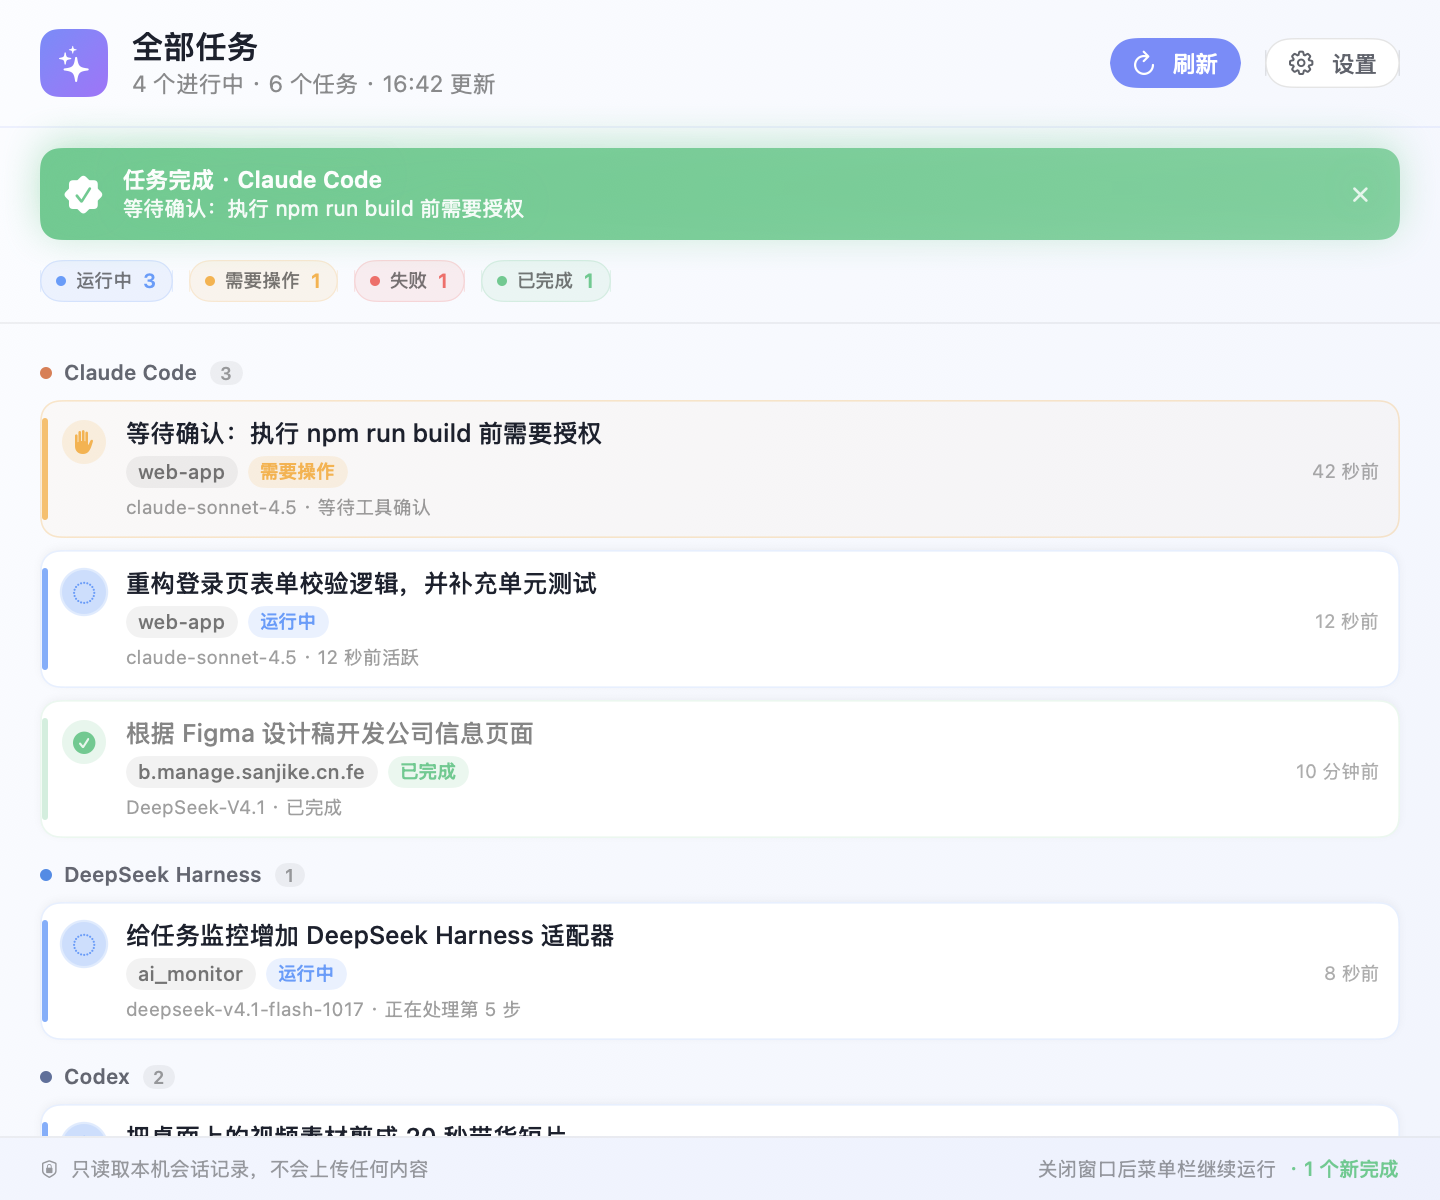
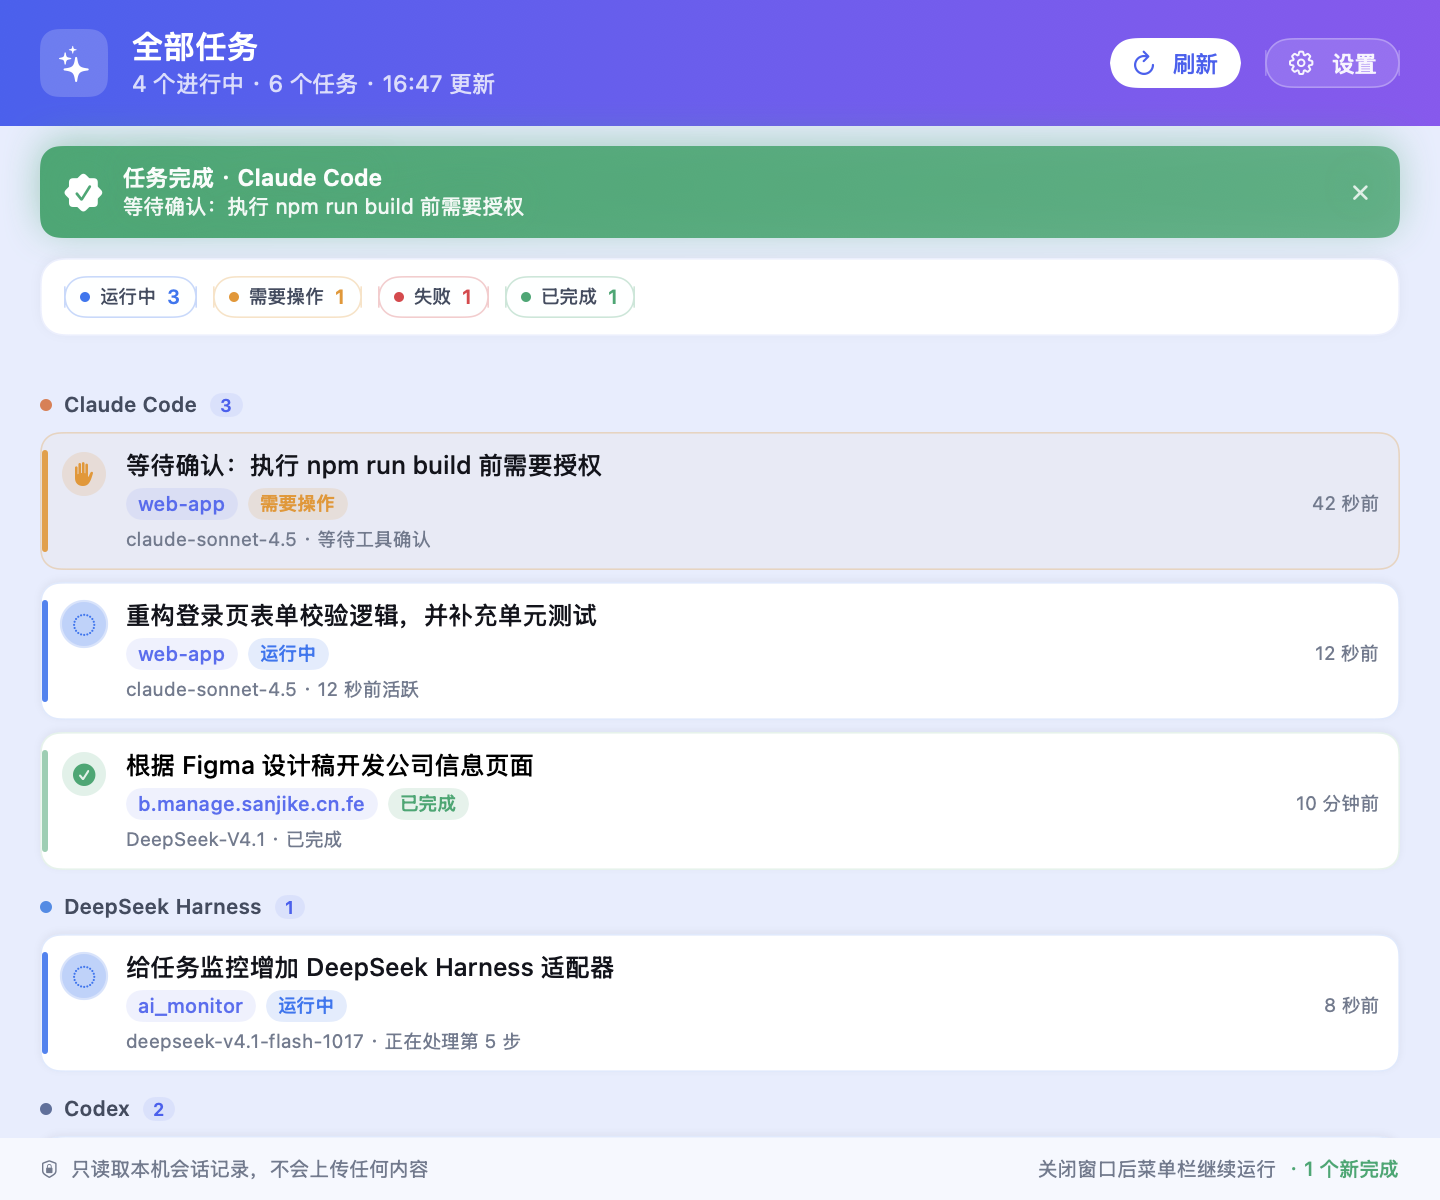
style: 主界面加蓝色渐变头部，已完成任务标题改纯黑
- 头部改成蓝紫渐变 + 白字，刷新/设置按钮改白底胶囊
- 画布改成明确的浅蓝，内容区用白色卡片和白色统计卡
- 次级文字整体加深，减少灰色感
- 已完成任务标题固定为 Color.black

Changed region(s): [[0.0312, 0.3083, 0.9688, 0.9867], [0.0, 0.0, 1.0, 0.2775], [0.9062, 0.37, 0.9688, 0.4317]]

diff --git a/Sources/AIMonitor/UI/Components.swift b/Sources/AIMonitor/UI/Components.swift
@@ -63,18 +63,19 @@ struct TaskRow: View {
             VStack(alignment: .leading, spacing: 4) {
                 Text(task.title)
                     .font(.system(size: 12.5, weight: .medium))
-                    .foregroundStyle(task.status == .completed ? Color.black.opacity(0.48) : Theme.ink)
+                    // 已完成任务也要清晰可读，统一用黑色
+                    .foregroundStyle(task.status == .completed ? Color.black : Theme.ink)
                     .lineLimit(2)
                     .multilineTextAlignment(.leading)
 
                 HStack(spacing: 5) {
                     Text(task.projectName)
                         .font(.system(size: 10, weight: .medium))
-                        .foregroundStyle(Color.black.opacity(0.52))
+                        .foregroundStyle(Theme.accent.opacity(0.9))
                         .lineLimit(1)
                         .padding(.horizontal, 6)
                         .padding(.vertical, 1.5)
-                        .background(Capsule().fill(Color.black.opacity(0.05)))
+                        .background(Capsule().fill(Theme.accent.opacity(0.09)))
 
                     StatusPill(status: task.status)
 
@@ -82,14 +83,14 @@ struct TaskRow: View {
 
                     Text(relativeTime)
                         .font(.system(size: 9.5))
-                        .foregroundStyle(Color.black.opacity(0.32))
+                        .foregroundStyle(Theme.inkTertiary)
                         .lineLimit(1)
                 }
 
                 if !task.detail.isEmpty {
                     Text(task.detail)
                         .font(.system(size: 9.5))
-                        .foregroundStyle(Color.black.opacity(0.38))
+                        .foregroundStyle(Theme.inkTertiary)
                         .lineLimit(1)
                 }
             }
@@ -99,7 +100,7 @@ struct TaskRow: View {
         .background(
             RoundedRectangle(cornerRadius: 10, style: .continuous)
                 .fill(Theme.rowFill(for: task.status))
-                .shadow(color: Color.black.opacity(0.04), radius: 2, y: 1)
+                .shadow(color: Color.black.opacity(0.05), radius: 2, y: 1)
         )
         .overlay(
             RoundedRectangle(cornerRadius: 10, style: .continuous)
@@ -107,7 +108,7 @@ struct TaskRow: View {
         )
         .overlay(alignment: .leading) {
             RoundedRectangle(cornerRadius: 1.5, style: .continuous)
-                .fill(Theme.color(for: task.status).opacity(task.status == .completed ? 0.30 : 0.82))
+                .fill(Theme.color(for: task.status).opacity(task.status == .completed ? 0.55 : 0.9))
                 .frame(width: 3)
                 .padding(.vertical, 9)
                 .padding(.leading, 1)
@@ -129,13 +130,13 @@ struct GroupHeader: View {
                 .frame(width: 6, height: 6)
             Text(provider)
                 .font(.system(size: 10.5, weight: .semibold))
-                .foregroundStyle(Theme.ink.opacity(0.68))
+                .foregroundStyle(Theme.inkSecondary)
             Text("\(count)")
                 .font(.system(size: 9, weight: .semibold))
-                .foregroundStyle(Color.black.opacity(0.36))
+                .foregroundStyle(Theme.accent)
                 .padding(.horizontal, 5)
                 .padding(.vertical, 0.5)
-                .background(Capsule().fill(Color.black.opacity(0.05)))
+                .background(Capsule().fill(Theme.accent.opacity(0.09)))
             Spacer()
         }
         .padding(.top, 6)
@@ -163,16 +164,16 @@ struct SummaryBar: View {
             Circle().fill(color).frame(width: 5, height: 5)
             Text(label)
                 .font(.system(size: 9.5, weight: .medium))
-                .foregroundStyle(Color.black.opacity(value > 0 ? 0.52 : 0.28))
+                .foregroundStyle(value > 0 ? Theme.inkSecondary : Theme.inkTertiary)
             Text("\(value)")
                 .font(.system(size: 10, weight: .semibold))
-                .foregroundStyle(value > 0 ? color : Color.black.opacity(0.28))
+                .foregroundStyle(value > 0 ? color : Theme.inkTertiary)
         }
         .padding(.horizontal, 8)
         .padding(.vertical, 4)
-        .background(Capsule().fill(color.opacity(value > 0 ? 0.10 : 0.035)))
+        .background(Capsule().fill(Color.white.opacity(value > 0 ? 0.9 : 0.6)))
         .overlay(
-            Capsule().strokeBorder(color.opacity(value > 0 ? 0.18 : 0.04), lineWidth: 0.6)
+            Capsule().strokeBorder(color.opacity(value > 0 ? 0.28 : 0.10), lineWidth: 0.8)
         )
     }
 }
@@ -237,10 +238,10 @@ struct EmptyStateView: View {
                 .foregroundStyle(Theme.accent.opacity(0.55))
             Text("暂时没有发现 AI 任务")
                 .font(.system(size: 12, weight: .medium))
-                .foregroundStyle(Theme.ink.opacity(0.7))
+                .foregroundStyle(Theme.ink.opacity(0.75))
             Text("在 Claude Code / Codex / DeepSeek Harness 里开始一个任务，或到设置里勾选更多 AI。")
                 .font(.system(size: 10.5))
-                .foregroundStyle(Color.black.opacity(0.4))
+                .foregroundStyle(Theme.inkSecondary)
                 .multilineTextAlignment(.center)
                 .frame(maxWidth: 250)
             Button("打开设置", action: onOpenSettings)

diff --git a/Sources/AIMonitor/UI/MainView.swift b/Sources/AIMonitor/UI/MainView.swift
@@ -16,9 +16,6 @@ struct MainView: View {
     var body: some View {
         VStack(spacing: 0) {
             header
-            Rectangle()
-                .fill(Theme.accent.opacity(0.10))
-                .frame(height: 1)
 
             if let banner = store.banner {
                 CompletionBanner(task: banner, onClose: { store.dismissBanner() })
@@ -28,41 +25,32 @@ struct MainView: View {
             }
 
             SummaryBar(counts: store.counts)
+                .padding(.horizontal, 12)
+                .padding(.vertical, 9)
+                .background(
+                    RoundedRectangle(cornerRadius: 12, style: .continuous)
+                        .fill(Color.white)
+                        .shadow(color: Color.black.opacity(0.04), radius: 3, y: 1)
+                )
+                .overlay(
+                    RoundedRectangle(cornerRadius: 12, style: .continuous)
+                        .strokeBorder(Theme.accent.opacity(0.10), lineWidth: 0.8)
+                )
                 .padding(.horizontal, 20)
                 .padding(.vertical, 10)
 
-            Rectangle()
-                .fill(Color.black.opacity(0.05))
-                .frame(height: 1)
-
             content
-            Rectangle()
-                .fill(Color.black.opacity(0.05))
-                .frame(height: 1)
             footer
         }
         .frame(minWidth: 560, minHeight: 440)
-        .background(
-            LinearGradient(
-                colors: [Theme.canvasTop, Theme.canvasBottom],
-                startPoint: .topLeading,
-                endPoint: .bottomTrailing
-            )
-            .ignoresSafeArea()
-        )
+        .background(Theme.canvas)
     }
 
     private var header: some View {
         HStack(spacing: 12) {
             ZStack {
                 RoundedRectangle(cornerRadius: 9, style: .continuous)
-                    .fill(
-                        LinearGradient(
-                            colors: [Theme.accent, Color(red: 0.65, green: 0.45, blue: 1.0)],
-                            startPoint: .topLeading,
-                            endPoint: .bottomTrailing
-                        )
-                    )
+                    .fill(Color.white.opacity(0.18))
                     .frame(width: 34, height: 34)
                 Image(systemName: "sparkles")
                     .font(.system(size: 16, weight: .semibold))
@@ -72,10 +60,10 @@ struct MainView: View {
             VStack(alignment: .leading, spacing: 2) {
                 Text("全部任务")
                     .font(.system(size: 16, weight: .semibold))
-                    .foregroundStyle(Theme.ink)
+                    .foregroundStyle(.white)
                 Text(subtitle)
                     .font(.system(size: 11.5))
-                    .foregroundStyle(Color.black.opacity(0.45))
+                    .foregroundStyle(.white.opacity(0.78))
             }
 
             Spacer()
@@ -83,10 +71,10 @@ struct MainView: View {
             Button(action: onRefresh) {
                 Label("刷新", systemImage: "arrow.clockwise")
                     .font(.system(size: 11.5, weight: .medium))
-                    .foregroundStyle(.white)
+                    .foregroundStyle(Theme.accent)
                     .padding(.horizontal, 11)
                     .padding(.vertical, 5)
-                    .background(Capsule().fill(Theme.accent))
+                    .background(Capsule().fill(Color.white))
             }
             .buttonStyle(.plain)
             .keyboardShortcut("r", modifiers: .command)
@@ -94,17 +82,24 @@ struct MainView: View {
             Button(action: onSettings) {
                 Label("设置", systemImage: "gearshape")
                     .font(.system(size: 11.5, weight: .medium))
-                    .foregroundStyle(Theme.ink.opacity(0.7))
+                    .foregroundStyle(.white.opacity(0.92))
                     .padding(.horizontal, 11)
                     .padding(.vertical, 5)
-                    .background(Capsule().fill(Color.white))
-                    .overlay(Capsule().strokeBorder(Color.black.opacity(0.10), lineWidth: 0.7))
+                    .background(Capsule().fill(Color.white.opacity(0.14)))
+                    .overlay(Capsule().strokeBorder(Color.white.opacity(0.28), lineWidth: 0.8))
             }
             .buttonStyle(.plain)
             .keyboardShortcut(",", modifiers: .command)
         }
         .padding(.horizontal, 20)
         .padding(.vertical, 14)
+        .background(
+            LinearGradient(
+                colors: [Theme.accent, Color(red: 0.56, green: 0.34, blue: 0.96)],
+                startPoint: .topLeading,
+                endPoint: .bottomTrailing
+            )
+        )
     }
 
     private var content: some View {
@@ -144,9 +139,9 @@ struct MainView: View {
                     .foregroundStyle(Theme.completed)
             }
         }
-        .foregroundStyle(Color.black.opacity(0.38))
+        .foregroundStyle(Theme.inkTertiary)
         .padding(.horizontal, 20)
         .padding(.vertical, 9)
-        .background(Theme.accent.opacity(0.04))
+        .background(Color.white.opacity(0.62))
     }
 }

diff --git a/Sources/AIMonitor/UI/Theme.swift b/Sources/AIMonitor/UI/Theme.swift
@@ -2,17 +2,21 @@ import SwiftUI
 import AppKit
 
 enum Theme {
-    static let accent = Color(red: 0.46, green: 0.55, blue: 1.0)
-    static let running = Color(red: 0.35, green: 0.62, blue: 1.0)
-    static let waiting = Color(red: 1.0, green: 0.69, blue: 0.22)
-    static let failed = Color(red: 1.0, green: 0.40, blue: 0.40)
-    static let completed = Color(red: 0.30, green: 0.80, blue: 0.55)
+    static let accent = Color(red: 0.27, green: 0.38, blue: 0.96)
+    static let running = Color(red: 0.16, green: 0.47, blue: 0.96)
+    static let waiting = Color(red: 0.93, green: 0.58, blue: 0.08)
+    static let failed = Color(red: 0.90, green: 0.23, blue: 0.28)
+    static let completed = Color(red: 0.08, green: 0.66, blue: 0.44)
 
     // 主界面浅色画布：白底带一点蓝紫，不再使用系统灰色
-    static let canvasTop = Color(red: 0.985, green: 0.99, blue: 1.0)
-    static let canvasBottom = Color(red: 0.945, green: 0.96, blue: 0.995)
+    static let canvasTop = Color(red: 0.93, green: 0.95, blue: 1.0)
+    static let canvasBottom = Color(red: 0.90, green: 0.93, blue: 1.0)
+    /// 主界面画布：明确的浅蓝，不再用接近白的渐变（容易被看成灰）
+    static let canvas = Color(red: 0.905, green: 0.93, blue: 1.0)
     static let card = Color.white
-    static let ink = Color(red: 0.11, green: 0.13, blue: 0.18)
+    static let ink = Color(red: 0.07, green: 0.08, blue: 0.11)
+    static let inkSecondary = Color(red: 0.26, green: 0.30, blue: 0.38)
+    static let inkTertiary = Color(red: 0.44, green: 0.48, blue: 0.56)
 
     static let panelWidth: CGFloat = 380
     static let panelHeight: CGFloat = 500
